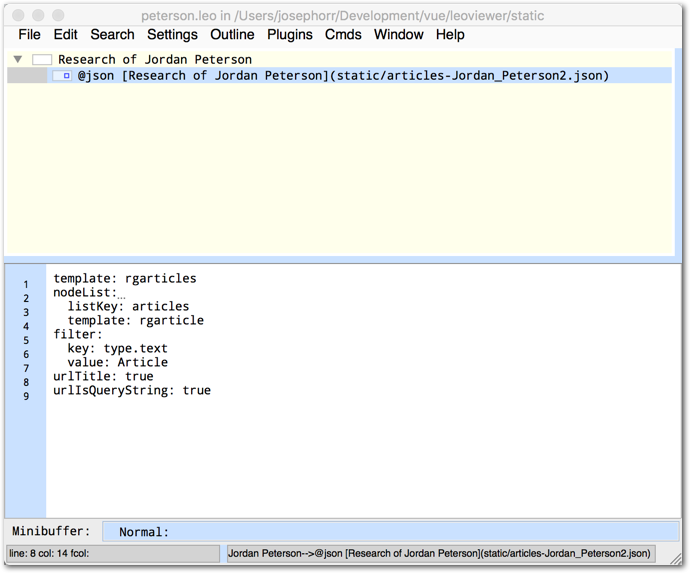
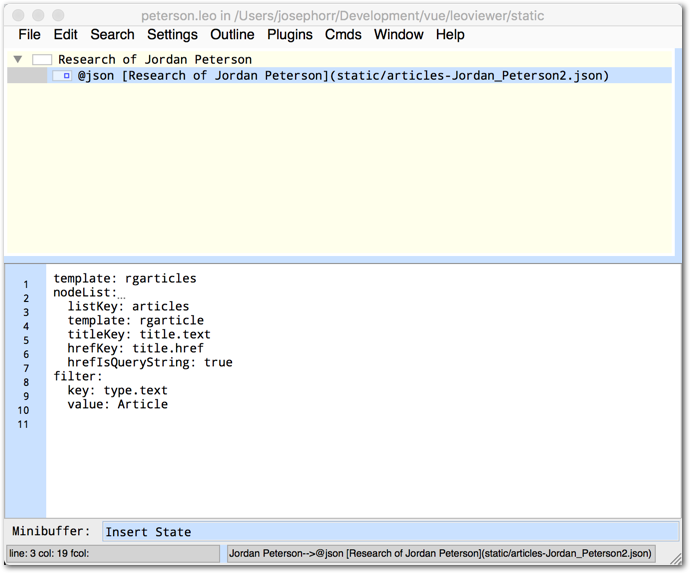
dist

diff --git a/src/store/index.js b/src/store/index.js
@@ -301,8 +301,8 @@ function showFormattedData (context, id, url, xslType, dataType, params, t) {
           dataArray = _.filter(dataArray, o => _.get(o, filter.key, '') === filter.value)
         }
         const template = nodeList.template || ''
-        addChildNodes(context.state, id, dataArray, template, params.urlIsQueryString,
-          params.urlTitle, nodeList.template, nodeList.titleKey)
+        addChildNodes(context.state, id, dataArray, template, nodeList.hrefIsQueryString,
+          nodeList.hrefKey, nodeList.template, nodeList.titleKey)
       }
     })
     .catch(function (error) {
@@ -319,7 +319,7 @@ function showFormattedData (context, id, url, xslType, dataType, params, t) {
  * @param urlIsQueryString: the url passed is not the full url (will be passed to template.host)
  * @returns {boolean}
  */
-function addChildNodes (context, parentId, data, template, urlIsQueryString, urlTitle, childTemplate, titleKey) {
+function addChildNodes (context, parentId, data, template, urlIsQueryString, hrefKey, childTemplate, titleKey) {
   if (!_.isArray(data)) { return }
   const item = JSON.search(context.leodata, '//*[id="' + parentId + '"]')[0]
   const children = []
@@ -337,8 +337,8 @@ function addChildNodes (context, parentId, data, template, urlIsQueryString, url
       vtitle = n.title.text
     }
     // urlTitle means the title of the list item will become a JSON url instead of a dataSet.
-    if (urlTitle) {
-      let url = n.title.href
+    if (hrefKey) {
+      let url = _.get(n, hrefKey)
       if (urlIsQueryString) {
         url = '/' + url
         url = url.substring(url.lastIndexOf('/') + 1)

diff --git a/index.html b/index.html
@@ -14,7 +14,7 @@
       "showAppTitle": false,
       "showHeader": true,
       "docTitle": "LeoVue Documentation and Example Content",
-      "filename": "static/peterson",
+      "filename": "static/docs",
       "firstNodeAsTitle": true,
       "baseMode": "t", // t = outline, for other types, see below
       "activeBackgroundColor": "#01FF70", //

diff --git a/src/lib/lodash-template.js b/src/lib/lodash-template.js
@@ -85,7 +85,7 @@ function render (json, templateType) {
     return '<h2>No Matching Template</h2>'
   }
   const compiled = _.template(templateString)
-  let html = '<h2>Template Compilation Error</h2>'
+  let html = '<h2 class="error-msg">Template Compilation Error</h2>'
   try {
     html = compiled({data: json})
   } catch (e) {

diff --git a/src/assets/global.sass b/src/assets/global.sass
@@ -10,6 +10,11 @@ $mycolor: #2c3e50
   padding: 0
   height: 100%
 
+.error-msg
+  margin-top: 100px
+  width: 100%
+  text-align: center
+
 .hcode
   background: #efefef
   padding: 20px

diff --git a/static/Export.md b/static/Export.md
@@ -35,7 +35,7 @@ If you open the side menu, you can see a link for 'Download Node Data'. This all
 
 If you haven't clicked on any JSON nodes and therefore have not loaded in any JSON data, when you export a node you just get the same data in the original file. 
 
-However, if you have clicked on a JSON node, the file you export will new data in it. In this way you can use LeoVue to load data into a Leo file, that you can then open in Leo for further organization.
+However, if you have clicked on a JSON node, the file you export will new data in it. In this way you can use LeoVue to load data into a Leo file that you can then open in Leo for further organization.
 
 ## An Example: ResearchGate
 
@@ -93,11 +93,13 @@ nodeList:
 ```
 
 * **listKey**: the key in the JSON data that is pointing to the array of items
-* **template**: The template to use to display the item
+* **template**: The template to use to display an item
 
 In this case, LeoVue will construct a set of child nodes from the JSON data array, and each node will get as content a single item from the data array.
 
 You can also tell LeoVue not to create datasets with node content but to instead create more JSON nodes:
+
+
 
 <img src="images/json-list-jbp.png" alt="alt text" width="700">
 
@@ -109,10 +111,17 @@ If you view this in LeoVue and then download the Leo file from LeoVue, you end u
 
 The child nodes are not dataSets, rather they are new JSON nodes. This is because the 'urlTitle' param has been specified.
 
+```
+nodeList: 
+  listKey: articles
+  template: rgarticle-brief
+```
 
+* **titleKey**: the key in the JSON data that is pointing to the array of items
+* **hrefKey**: The key for the url of the item
+* **hrefIsQueryString**: The template to use to display an item
 
-
-
+==========xx
 
 In the present case you can not only have LeoVue retrieve a list of nodes, you can additionally click on each retrieved node and get more JSON data for the given article.
 
